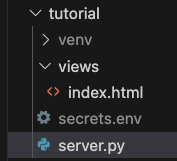
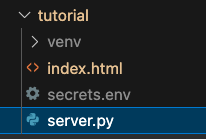
updated file structure so it is all flat

diff --git a/docs/tutorial.md b/docs/tutorial.md
@@ -14,7 +14,7 @@ Tutorial [code on GitHub](https://github.com/theta360developers/oppkey-ricoh-vie
 
 ## front-end HTML File
 
-Create a barebones HTML file called `index.html`.  Move the file to a sub-folder called, `views`.
+Create a barebones HTML file called `index.html`.
 
 ```html
 <!DOCTYPE html>
@@ -61,7 +61,7 @@ Flask.
 </script>
 ```
 
-At this stage, the `views/index.html` file looks like this.
+At this stage, the `index.html` file looks like this.
 
 ```html
 <!DOCTYPE html>
@@ -108,14 +108,19 @@ a `secrets.env` file.
 ## back-end Python file
 
 Create a new python file in the same directory called `server.py` in the
-same directory as the `views` folder.  It is one level higher than
-the `index.html` file.
-
-![file structure](images/tutorial/file_structure_1.png)
+same directory as the `index.html` file.
 
 Create virtual environment.
 
 `python -m venv venv`
+
+Activate virtual environment.
+
+`source venv/bin/activate`
+
+The file structure will look like this.
+
+![file structure](images/tutorial/file_structure_1.png)
 
 Install dependencies.
 
@@ -132,8 +137,7 @@ from dotenv import load_dotenv
 load_dotenv("secrets.env")
 
 app = Flask(__name__)
-app.template_folder = "views"
-app.static_folder = "public"
+app.template_folder = "."
 
 # Retrieve environment variables
 PRIVATE_KEY = os.getenv("PRIVATE_KEY")
@@ -154,6 +158,17 @@ if __name__ == "__main__":
 
 At this stage, if you open the browser, you will just have a black screen.  You won't be able to see the image because you still need to
 pass the viewer the `token` and the `contentId`
+
+You can test the server with:
+
+```text
+python server.py
+* Serving Flask app 'server'
+ * Debug mode: on
+WARNING: This is a development server. Do not use it in a production deployment. Use a production WSGI server instead.
+ * Running on http://127.0.0.1:3000
+Press CTRL+C to quit
+```
 
 ![bare web page](images/tutorial/bare_web_page.png)
 
@@ -183,6 +198,12 @@ def index():
     token = create_token()
     return render_template("index.html",  token=token)
 ```
+
+Run the server and test it again to make sure the token is being created.
+
+### token display challenge
+
+As a challenge, display the token on  your HTML page using this syntax `{{name_of_token_variable}}`
 
 ### accessing content
 
